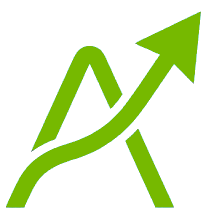
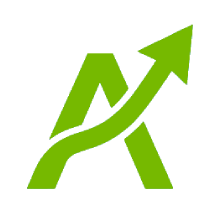
Fix bugs

Changed region(s): [[0.0287, 0.0561, 0.9761, 0.9813]]

diff --git a/server/src/services/nvidia.service.js b/server/src/services/nvidia.service.js
@@ -1,28 +1,50 @@
-export const analyzeBusiness = async (formData) => {
-  // Using NVIDIA NIM completion endpoint (or adapt if different)
-  // We're using standard fetch here, adjust URL based on the exact model
-  const prompt = `You are an expert Business Consultant specializing in Small and Medium Enterprises (SMEs) and local shop owners in India.
-Analyze the following business profile and provide a JSON response with EXACTLY three keys: "diagnosis", "actionPlan", and "prioritySteps".
-Make sure your advice is highly practical and tailored to the Indian market. Use Indian Rupees (₹) for any financial estimates, reference relevant local marketing channels (e.g., WhatsApp Business, UPI, local SEO, Instagram, Justdial), and provide realistic, culturally-aware examples that a small business owner in India can actually implement.
-The values for these keys MUST be formatted as plain text strings.
-CRITICAL FORMATTING RULES:
-1. You may use markdown, but you MUST use proper newline characters (\\n) before any bullet points, lists, or paragraphs.
-2. DO NOT output bullet points on a single line. Separate them with \\n.
-3. If you use tables, format them using standard GitHub Flavored Markdown tables.
-4. DO NOT use nested JSON objects or arrays for the values.
-  
-Profile:
-Business Type: ${formData.businessType}
-City: ${formData.city}
-Revenue: ${formData.revenue}
-Age: ${formData.businessAge}
-Problem: ${formData.problemArea}
-Team Size: ${formData.teamSize}
-Urgency: ${formData.urgency}
-Details: ${formData.detail}
+// Helper to attempt repairing truncated JSON by closing open structures
+const repairTruncatedJson = (str) => {
+  let s = str.trim();
+  // Count open braces and quotes to try to close them
+  let openBraces = 0;
+  let inString = false;
+  let escape = false;
+  for (const ch of s) {
+    if (escape) { escape = false; continue; }
+    if (ch === '\\' && inString) { escape = true; continue; }
+    if (ch === '"') { inString = !inString; continue; }
+    if (inString) continue;
+    if (ch === '{') openBraces++;
+    if (ch === '}') openBraces--;
+  }
+  // If we're still inside a string, close it
+  if (inString) s += '"';
+  // Close any open values and braces
+  while (openBraces > 0) {
+    s += '}';
+    openBraces--;
+  }
+  return s;
+};
 
-Return ONLY valid JSON.
-`;
+export const analyzeBusiness = async (formData) => {
+  const systemPrompt = `You are an expert Business Consultant specializing in Small and Medium Enterprises (SMEs) and local shop owners in India.
+Your advice is highly practical and tailored to the Indian market. Always use Indian Rupees (₹) for financial estimates, reference local marketing channels (WhatsApp Business, UPI, Justdial, Instagram, local SEO), and give culturally-aware, immediately actionable examples.`;
+
+  const userPrompt = `Analyze the following business profile and respond with ONLY a valid JSON object containing EXACTLY three keys: "diagnosis", "actionPlan", and "prioritySteps".
+
+CRITICAL RULES:
+- All values MUST be plain text strings (no nested objects or arrays).
+- Use markdown within the strings for formatting (bold, bullet points, tables).
+- Use \\n to separate bullet points and paragraphs within strings.
+- Tables must use GitHub Flavored Markdown format.
+- Return ONLY the JSON object — no extra text, no code fences, no preamble.
+
+Business Profile:
+- Business Type: ${formData.businessType}
+- City: ${formData.city}
+- Monthly Revenue: ${formData.revenue}
+- Business Age: ${formData.businessAge}
+- Core Problem: ${formData.problemArea}
+- Team Size: ${formData.teamSize}
+- Urgency: ${formData.urgency}
+- Additional Details: ${formData.detail}`;
 
   try {
     const response = await fetch('https://integrate.api.nvidia.com/v1/chat/completions', {
@@ -32,36 +54,51 @@ Return ONLY valid JSON.
         'Authorization': `Bearer ${process.env.NVIDIA_API_KEY}`
       },
       body: JSON.stringify({
-        model: 'nvidia/nemotron-3-nano-30b-a3b', 
-        messages: [{ role: 'user', content: prompt }],
-        max_tokens: 4096,
+        model: 'nvidia/nemotron-3-nano-30b-a3b',
+        messages: [
+          { role: 'system', content: systemPrompt },
+          { role: 'user', content: userPrompt }
+        ],
+        max_tokens: 8192,
         temperature: 0.2
       })
     });
 
     if (!response.ok) {
-      throw new Error(`NVIDIA API Error: ${response.statusText}`);
+      const errText = await response.text();
+      throw new Error(`NVIDIA API Error: ${response.statusText} — ${errText}`);
     }
 
     const data = await response.json();
-    const content = data.choices?.[0]?.message?.content || "";
-    
-    try {
-      // Clean up markdown block if present
-      let cleanContent = content.trim();
-      if (cleanContent.startsWith('```json')) {
-        cleanContent = cleanContent.replace(/^```json/, '').replace(/```$/, '').trim();
-      } else if (cleanContent.startsWith('```')) {
-        cleanContent = cleanContent.replace(/^```/, '').replace(/```$/, '').trim();
-      }
-      
-      // Extract from first { to last }
-      const startIdx = cleanContent.indexOf('{');
-      const endIdx = cleanContent.lastIndexOf('}');
-      if (startIdx !== -1 && endIdx !== -1) {
-        cleanContent = cleanContent.substring(startIdx, endIdx + 1);
-      }
 
+    const content = data.choices?.[0]?.message?.content;
+    const finishReason = data.choices?.[0]?.finish_reason;
+
+    if (!content) {
+      return {
+        diagnosis: "The AI model returned an empty response. Please try again.",
+        actionPlan: "Unable to generate an action plan.",
+        prioritySteps: "Unable to generate priority steps."
+      };
+    }
+
+    // Clean up markdown code fences if the model wrapped in them
+    let cleanContent = content.trim();
+    cleanContent = cleanContent.replace(/^```json\s*/i, '').replace(/```\s*$/i, '').trim();
+    cleanContent = cleanContent.replace(/^```\s*/i, '').replace(/```\s*$/i, '').trim();
+
+    // Extract from first { to last }
+    const startIdx = cleanContent.indexOf('{');
+    const endIdx = cleanContent.lastIndexOf('}');
+    if (startIdx !== -1 && endIdx !== -1) {
+      cleanContent = cleanContent.substring(startIdx, endIdx + 1);
+    } else if (startIdx !== -1) {
+      // Truncated — try to repair
+      cleanContent = repairTruncatedJson(cleanContent.substring(startIdx));
+      console.warn('Response was truncated (finish_reason:', finishReason, '). Attempted JSON repair.');
+    }
+
+    try {
       const parsed = JSON.parse(cleanContent);
       return {
         diagnosis: typeof parsed.diagnosis === 'string' ? parsed.diagnosis : JSON.stringify(parsed.diagnosis, null, 2),
@@ -69,13 +106,24 @@ Return ONLY valid JSON.
         prioritySteps: typeof parsed.prioritySteps === 'string' ? parsed.prioritySteps : JSON.stringify(parsed.prioritySteps, null, 2),
       };
     } catch (e) {
-      console.error("Failed to parse JSON:", e, content);
-      // Fallback if not perfectly formatted JSON
-      return {
-        diagnosis: content || "The AI model returned an empty response.",
-        actionPlan: "Unable to extract action plan from the AI response.",
-        prioritySteps: "Unable to extract priority steps from the AI response."
-      };
+      // Second attempt: try repairing even if we thought we had balanced braces
+      try {
+        const repaired = repairTruncatedJson(cleanContent);
+        const parsed = JSON.parse(repaired);
+        return {
+          diagnosis: typeof parsed.diagnosis === 'string' ? parsed.diagnosis : JSON.stringify(parsed.diagnosis, null, 2),
+          actionPlan: typeof parsed.actionPlan === 'string' ? parsed.actionPlan : JSON.stringify(parsed.actionPlan, null, 2),
+          prioritySteps: typeof parsed.prioritySteps === 'string' ? parsed.prioritySteps : JSON.stringify(parsed.prioritySteps, null, 2),
+        };
+      } catch (e2) {
+        console.error("Failed to parse JSON (even after repair):", e2.message);
+        console.error("Raw content was:", content);
+        return {
+          diagnosis: content || "The AI model returned an empty response.",
+          actionPlan: "Unable to extract action plan from the AI response.",
+          prioritySteps: "Unable to extract priority steps from the AI response."
+        };
+      }
     }
   } catch (error) {
     console.error('NVIDIA API Error:', error);
@@ -102,7 +150,7 @@ Use standard markdown formatting (including proper \\n for line breaks, lists, a
       body: JSON.stringify({
         model: 'nvidia/nemotron-3-nano-30b-a3b',
         messages: [{ role: 'user', content: prompt }],
-        max_tokens: 2048,
+        max_tokens: 4096,
         temperature: 0.5
       })
     });

diff --git a/client/src/components/report/FollowupChat.jsx b/client/src/components/report/FollowupChat.jsx
@@ -6,12 +6,24 @@ import { Input } from '../ui/Input.jsx';
 import { Send, User, Bot, Maximize2, Minimize2 } from 'lucide-react';
 import ReactMarkdown from 'react-markdown';
 import remarkGfm from 'remark-gfm';
+import rehypeRaw from 'rehype-raw';
+
 
 export const FollowupChat = ({ sessionId, followups = [] }) => {
   const [question, setQuestion] = useState('');
   const [isFullScreen, setIsFullScreen] = useState(false);
   const { sendFollowup, isLoading } = useConsultStore();
   const bottomRef = useRef(null);
+
+  // Format content to handle inline bullets
+  const formatContent = (content) => {
+    if (typeof content !== 'string') return content;
+    
+    return content
+      .replace(/<br\s*\/?>/gi, '\n')   // convert <br> tags to newlines
+      .replace(/(?<=.*[*\-])\s+(?=[\da-zA-Z])(?![\s\n])/g, '\n\n'); // add space before inline bullets
+      
+  };
 
   // Scroll to bottom when followups change
   useEffect(() => {
@@ -74,7 +86,7 @@ export const FollowupChat = ({ sessionId, followups = [] }) => {
                   <Bot className="h-4 w-4 text-[#76b900]" />
                 </div>
                 <div className="bg-white border border-gray-200 text-gray-800 rounded-2xl rounded-tl-sm px-4 py-3 max-w-[85%] text-sm shadow-sm prose prose-sm prose-p:my-1 prose-ul:my-1 prose-ol:my-1 max-w-full overflow-x-auto">
-                  <ReactMarkdown remarkPlugins={[remarkGfm]}>{f.answer}</ReactMarkdown>
+                  <ReactMarkdown remarkPlugins={[remarkGfm]} rehypePlugins={[rehypeRaw]}>{f.answer}</ReactMarkdown>
                 </div>
               </div>
             </div>

diff --git a/client/src/components/report/ReportSection.jsx b/client/src/components/report/ReportSection.jsx
@@ -1,6 +1,7 @@
 import { Activity, Target, Zap } from 'lucide-react';
 import ReactMarkdown from 'react-markdown';
 import remarkGfm from 'remark-gfm';
+import rehypeRaw from 'rehype-raw';
 
 export const ReportSection = ({ title, content, type }) => {
   const getIcon = () => {
@@ -21,8 +22,10 @@ export const ReportSection = ({ title, content, type }) => {
     }
   };
 
-  const formattedContent = typeof content === 'string' 
-    ? content.replace(/(?<=[\w.!?])\s+([*-])\s+/g, '\n\n$1 ') 
+  const formattedContent = typeof content === 'string'
+    ? content
+        .replace(/<br\s*\/?>/gi, '\n')   // convert <br> tags to newlines
+        .replace(/(?<=[\w.!?])\s+([*-])\s+/g, '\n\n$1 ')  // separate inline bullets
     : content;
 
   return (
@@ -32,7 +35,7 @@ export const ReportSection = ({ title, content, type }) => {
         <h3 className="text-lg font-bold text-gray-900">{title}</h3>
       </div>
       <div className="prose prose-sm max-w-none text-gray-700">
-        <ReactMarkdown remarkPlugins={[remarkGfm]}>{formattedContent}</ReactMarkdown>
+        <ReactMarkdown remarkPlugins={[remarkGfm]} rehypePlugins={[rehypeRaw]}>{formattedContent}</ReactMarkdown>
       </div>
     </div>
   );

diff --git a/client/index.html b/client/index.html
@@ -2,12 +2,12 @@
 <html lang="en">
   <head>
     <meta charset="UTF-8" />
-    <link rel="icon" type="image/svg+xml" href="/favicon.svg" />
+    <link rel="icon" type="image/svg+xml" href="/favicon.ico" />
     <meta name="viewport" content="width=device-width, initial-scale=1.0" />
     <link rel="preconnect" href="https://fonts.googleapis.com">
     <link rel="preconnect" href="https://fonts.gstatic.com" crossorigin>
     <link href="https://fonts.googleapis.com/css2?family=DM+Sans:ital,opsz,wght@0,9..40,100..1000;1,9..40,100..1000&family=DM+Serif+Display:ital@0;1&display=swap" rel="stylesheet">
-    <title>Zuvio</title>
+    <title>Advisr</title>
   </head>
   <body>
     <div id="root"></div>